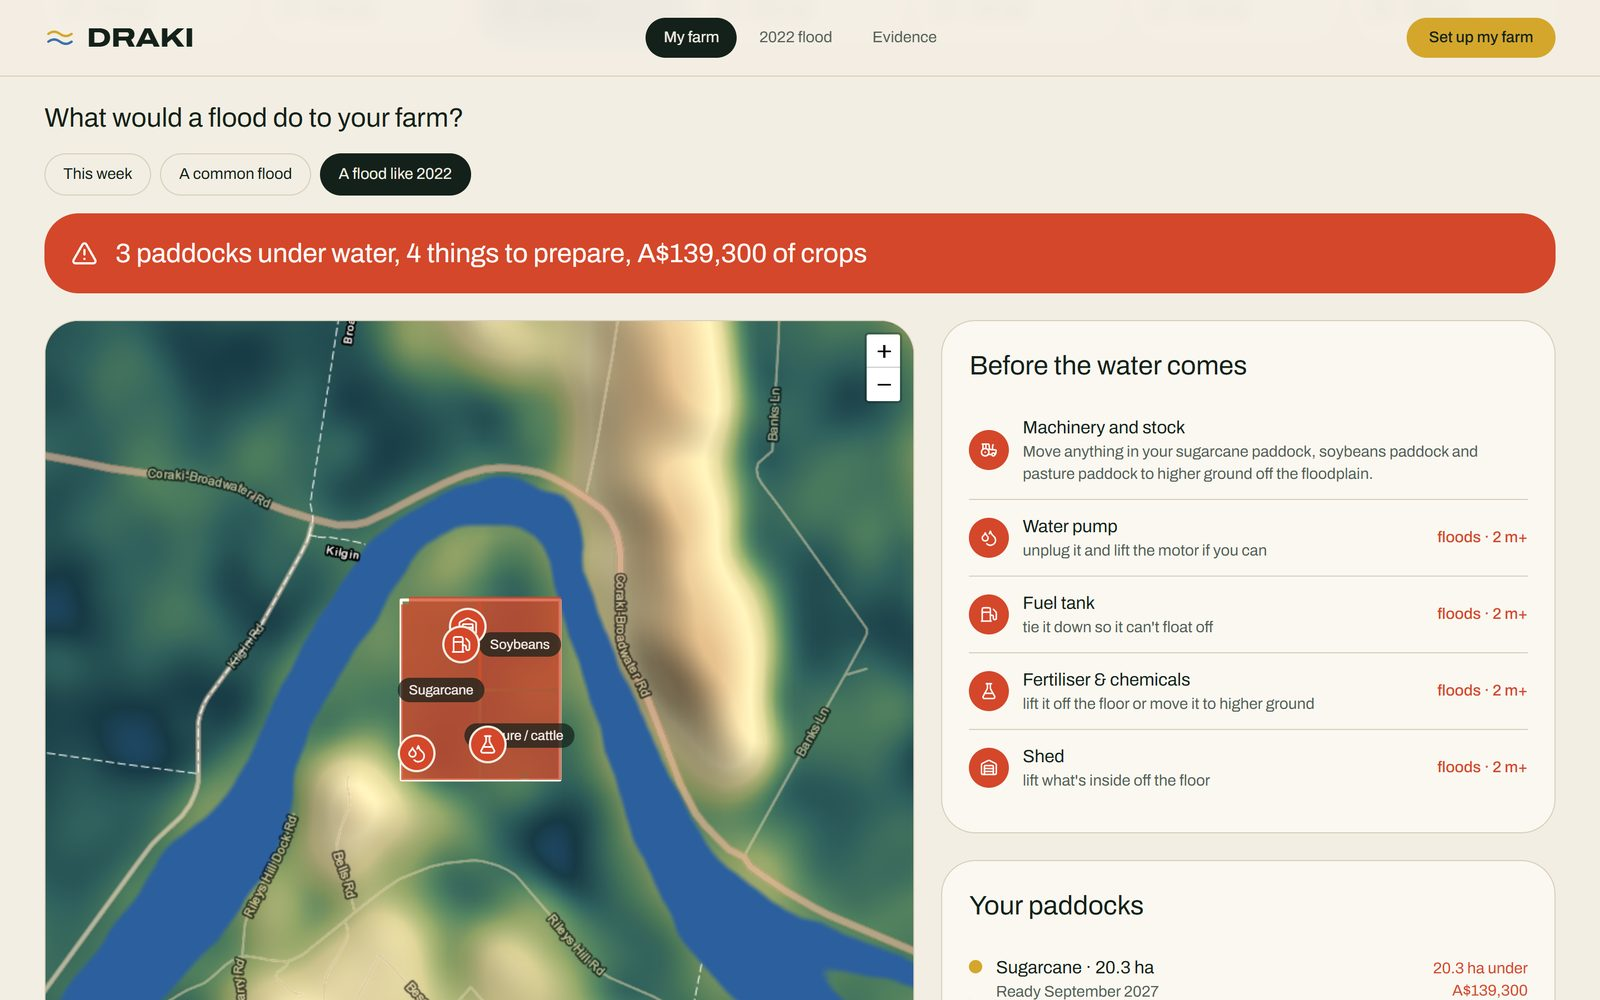
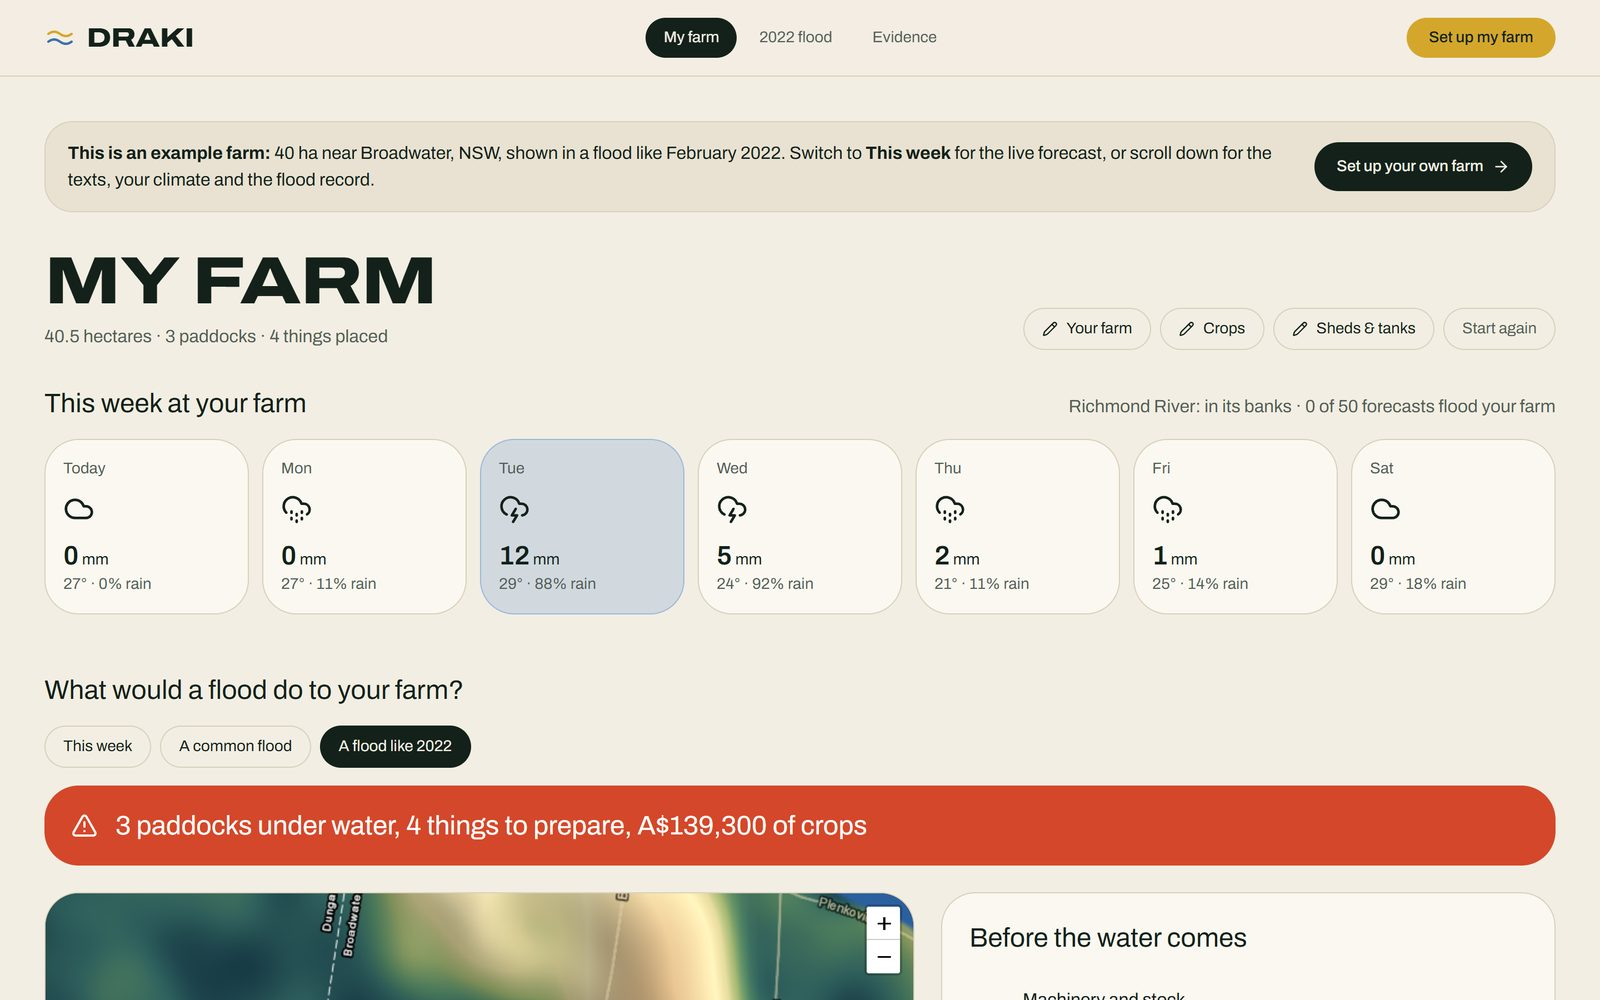
Fix the 2022 cane bar; README screenshots of the new home page
- Cane crush chart: the fill is no longer rounded, so 2022's bar meets the -17% segment square
- README: new screenshots (hero, How Draki works, what 2022 cost, COP31 + "See it on a farm",
  example farm with its note)

diff --git a/web/src/App.tsx b/web/src/App.tsx
@@ -266,7 +266,8 @@ function CaneLoss() {
             <div key={yr as string} className="grid grid-cols-[3.5rem_1fr] items-center gap-4">
               <span className="text-sm text-white/70 tabular-nums">{yr}</span>
               <div className="relative h-11 overflow-hidden rounded-full bg-white/[0.06]">
-                <div className="absolute inset-y-0 left-0 flex items-center justify-end rounded-full bg-cane pr-4 text-sm font-semibold text-ink tabular-nums" style={{ width: `${((v as number) / was) * 100}%` }}>
+                {/* No rounding on the fill: the track rounds the ends, so 2022's fill meets the −17% segment square. */}
+                <div className="absolute inset-y-0 left-0 flex items-center justify-end bg-cane pr-4 text-sm font-semibold text-ink tabular-nums" style={{ width: `${((v as number) / was) * 100}%` }}>
                   {label}
                 </div>
                 {yr === "2022" && (

diff --git a/README.md b/README.md
@@ -28,14 +28,20 @@
 
 | | |
 |---|---|
+| [![How Draki works: mark the farm once, Draki watches the river and rain, the farmer gets a text](docs/images/how.jpg)](https://climate-tion.vercel.app) | [![What 2022 cost: the river at Lismore hit 14.4 m, and the Northern Rivers cane crush fell 17%](docs/images/cost.jpg)](https://climate-tion.vercel.app) |
+| **How Draki works:** mark the farm once; Draki watches the river and rain; the farmer gets a text in time. | **What 2022 cost:** the river at Lismore hit 14.4 m, the Broadwater mill flooded, and the cane crush fell 17%. |
 | [![The 2022 flood replay at the peak: 41.3 ha under water, Act today](docs/images/replay.jpg)](https://climate-tion.vercel.app/#/live?replay) | [![My farm in a 2022-size flood: 3 paddocks under water, A$139,300 of crops, what to move and tie down](docs/images/farm.jpg)](https://climate-tion.vercel.app/#/farm?example) |
-| **2022 flood replay:** hour by hour, the field fills and *Act today* comes 45 hours before the peak. | **My farm:** what a 2022-size flood does to each paddock (ha and A$), and what to move and tie down. |
+| **2022 flood replay:** hour by hour, the field fills and *Act today* comes 45 hours before the peak. | **My farm (example):** opens on a 2022-size flood. Shows what it does to each paddock (ha and A$), and what to move and tie down. |
 | [![Your climate: very heavy rain days at Woodburn nearly tripled, and El Niño this season](docs/images/climate.jpg)](https://climate-tion.vercel.app/#/farm?example) | [![Printable flood record: 40.3 ha under water, A$139,300 of crops, per paddock](docs/images/record.jpg)](https://climate-tion.vercel.app/#/farm?example) |
 | **Your climate:** very heavy rain days have nearly tripled; why, and this season's El Niño. | **Flood record:** a printable, per-paddock record of the 2022 flood for disaster grants and insurance. |
 
 [![Evidence page: Draki's 2022 flood map against the Sentinel-1 radar map, 72% overlap, 6 of 6 recorded floods](docs/images/proof.jpg)](https://climate-tion.vercel.app/#/proof)
 
 **Evidence:** Draki's 2022 flood map against the Sentinel-1 radar map (72% overlap), and all 6 recorded floods since 2009 caught.
+
+[![Home page: the COP31 track and 2035 target, and "See it on a farm" with links to the example farm and setup](docs/images/bottom.jpg)](https://climate-tion.vercel.app)
+
+**COP31 and next step:** the home page ends with the track and its 2035 target, then links to the example farm and to setting up your own.
 
 ## The problem
 
